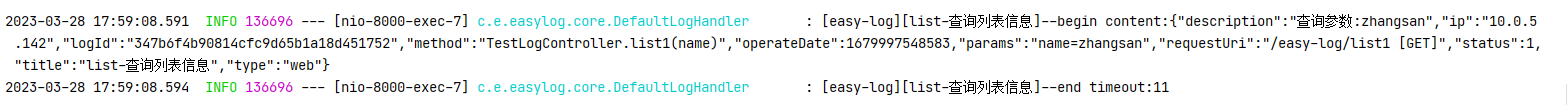
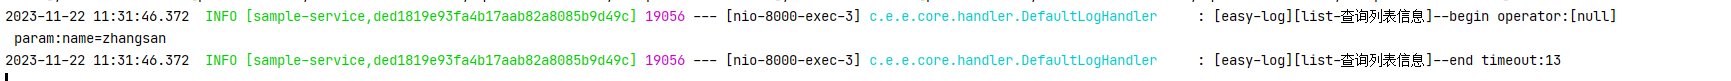
【文档】update在线日志示例

diff --git a/docs/guide/quickstart.md b/docs/guide/quickstart.md
@@ -16,11 +16,15 @@ spring:
     enabled: true #是否启动easy-log-spring-boot-starter 默认:true
 ```
 > easy-log基于spring aop实现功能,请确保项目已经集成并开启aop功能(spring-boot-starter-aop)
+
+不修改任何代码及配置,项目提供基本启动日志信息
+![](../img/quickstart_starter.png)
+
 ## 2.日志定义
 > easy-log与传统日志注解标记业务,设计上有所不同。并不局限于指定某个日志注解增强处理,而是设计成一种开放能力。
 
 ### 方式1: 无注解记录日志
-无日志注解记录操作日志,适合简单记录审计日志,不想改动业务代码,包括加日志注解也不想改的”一行不改“,极致的解耦场景。
+无日志注解记录操作日志,适合简单记录请求日志,不想改动业务代码,包括加日志注解也不想改的”一行不改“,极致的解耦场景。
 
 1. 开启扫描controller日志记录配置(service同样也是支持的)
 
@@ -51,6 +55,9 @@ public class TestLogController {
 3. 无日志注解记录日志效果
 
 ![](../img/log_not_annotation.png)
+
+- 自动记录请求类及方法,并记录参数及超时时间
+- 自动为请求生成traceId
 
 ### 方式2: @EasyLog记录日志
 @EasyLog为框架提供默认日志注用于标记需要记录日志的controller/service等接口,并且实现了定义日志处理,异步处理,自定义标签属性等高级功能
@@ -163,7 +170,7 @@ public class TestLogController {
 ```
 
 ## 4.处理日志信息
-默认的日志处理器,只是简单实现了。执行前后的日志信息打印.
+默认的日志处理器,只是简单实现了, 接口执行前后的日志信息打印.
 ```java
 public class DefaultLogHandler implements LogDataHandler<LogInfo> {
     private static final Logger LOGGER = LoggerFactory.getLogger(DefaultLogHandler.class);
@@ -205,7 +212,7 @@ public class H2DataHandler extends DefaultLogHandler {
 
 ## 5. 日志性能
 任何使用aop增加逻辑,如论是事务控制,权限注解,缓存注解还是日志记录,都会对相比无aop方法执行产生一定得性能影响,使用可能会关心使用.日志记录产生影响到底是多少,是否有量化指标。
-easy集成spring stopwatch功能来记录业务方法操作及日志处理器各个环节的执行耗时分析
+easy-log集成spring stopwatch功能来记录业务方法操作及日志处理器各个环节的执行耗时分析
 
 开启方法很简单
 ```yaml
@@ -248,3 +255,26 @@ spring:
 ![](../img/quickstart_web.png)
 动态修改配置
 ![](../img/quickstart_web_update.png)
+
+
+> 在线实时日志支持依赖websocket和logback日志(springboot默认)
+
+补充websocket依赖
+```xml
+        <!--websocket-->
+        <dependency>
+            <groupId>org.springframework.boot</groupId>
+            <artifactId>spring-boot-starter-websocket</artifactId>
+        </dependency>
+```
+在线日志效果
+![](../img/quickstart_web_websocket.png)
+
+如果不需要在线日志可以控制关闭
+```yaml
+spring:
+  easy-log:
+    web:
+      websocket:
+        enabled: true #是否开启websocket在线日志功能, 默认true
+```

diff --git a/docs/README.md b/docs/README.md
@@ -28,7 +28,7 @@
 
 - **友好性**:
   1. 完善的文档信息,包含各种扩展点演示代码示例
-  2. 支持swagger/knife4j定义接口自动记录执行日志,一键配置【真的不需要那么多注解】
+  2. 支持swagger/knife4j/OpenApi3定义接口自动记录执行日志,一键配置【真的不需要那么多注解】
   3. 支持controller/service接口方法一键开启执行日志 【接口方法/入参/请求耗时/异常报错一目了然】  
   4. 支持mybatis/mybatis-plus mapper操作日志记录,支持记录数据快照(修改操作及删除操作)  
   5. 支持StopWatch测试日志增强处理性能开销 
